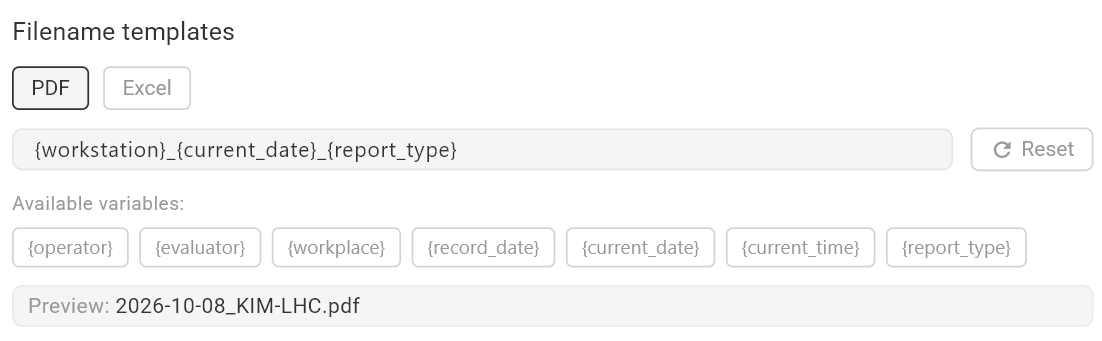
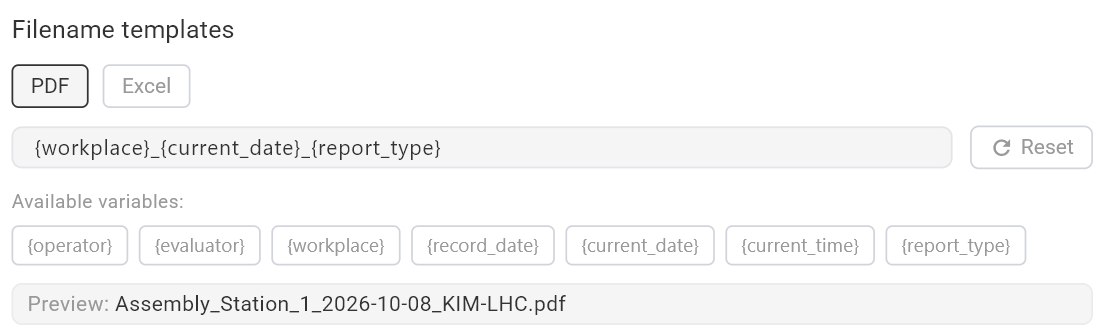
Add recording, hardware and calibration GIFs; update filename templates screenshot
Claude-Session: https://claude.ai/code/session_01LLyQzEhiRwsg6tjQLGizVa

diff --git a/articles/hardware-setup-troubleshooting.html b/articles/hardware-setup-troubleshooting.html
@@ -364,14 +364,10 @@
 
         <p>This is also how you'd recover from a broken sensor: remove the faulty one from its segment, connect its replacement and click <strong>Refresh</strong> (or <strong>Find new trackers</strong>) to detect it, then <strong>Allocate</strong> the new tracker to the now-empty segment.</p>
 
-        <div class="media-placeholder">
-          <span class="media-type is-gif">
-            <svg viewBox="0 0 24 24"><polygon points="5 3 19 12 5 21 5 3"/></svg>
-            GIF
-          </span>
-          <div class="media-placeholder-title">Manual allocation</div>
-          <div class="media-placeholder-desc">Removing a sensor from its segment, then allocating an unassigned tracker to an empty segment via Choose segment.</div>
-        </div>
+        <figure class="article-figure">
+          <img src="hardwaresetuptroubleshooting-manualallocation.gif" alt="Finding a new tracker, then moving the unassigned sensor to the empty Pelvis segment via Choose segment" />
+          <figcaption><strong>Find new trackers</strong> picks up a sensor that isn't assigned yet; its action menu then lets you move it to an empty segment via <strong>Choose segment</strong>.</figcaption>
+        </figure>
 
         <div class="callout callout-warn">
           <svg class="callout-icon" viewBox="0 0 24 24"><path d="M10.29 3.86L1.82 18a2 2 0 0 0 1.71 3h16.94a2 2 0 0 0 1.71-3L13.71 3.86a2 2 0 0 0-3.42 0z"/><line x1="12" y1="9" x2="12" y2="13"/><line x1="12" y1="17" x2="12.01" y2="17"/></svg>

diff --git a/articles/recording-with-mvn-sdk.html b/articles/recording-with-mvn-sdk.html
@@ -368,14 +368,10 @@
 
         <p>These markers aren't just bookmarks: when you later create a report from this recording, they carry straight over as pre-filled tasks &mdash; lifting moments for NIOSH and KIM-LHC, posture tasks for RULA &mdash; in the same place you'd otherwise add them by hand. Task-specific details a marker can't capture, such as NIOSH load weight or coupling, are left for you to fill in on the report's input page.</p>
 
-        <div class="media-placeholder">
-          <span class="media-type is-gif">
-            <svg viewBox="0 0 24 24"><polygon points="5 3 19 12 5 21 5 3"/></svg>
-            GIF
-          </span>
-          <div class="media-placeholder-title">Setting a marker</div>
-          <div class="media-placeholder-desc">Pressing Start marker and Stop marker during a recording to mark out one task.</div>
-        </div>
+        <figure class="article-figure">
+          <img src="recordingwithmvnsdk-settingamarker.gif" alt="Pressing Start marker and Stop marker during a recording, after which the task appears in the Recording tasks panel" />
+          <figcaption>Click <strong>Start marker</strong> when the task begins and <strong>Stop marker</strong> when it ends &mdash; the task then appears in the Recording tasks panel.</figcaption>
+        </figure>
 
         <h3>Keyboard shortcuts</h3>
 

diff --git a/articles/calibrating-your-sensors.html b/articles/calibrating-your-sensors.html
@@ -342,14 +342,10 @@
           <li>Make sure there's enough clear space nearby to walk continuously without bumping into anything</li>
         </ul>
 
-        <div class="media-placeholder">
-          <span class="media-type is-gif">
-            <svg viewBox="0 0 24 24"><polygon points="5 3 19 12 5 21 5 3"/></svg>
-            GIF
-          </span>
-          <div class="media-placeholder-title">Keep walking countdown</div>
-          <div class="media-placeholder-desc">The dynamic calibration step, showing the “Keep walking” countdown ring while the subject walks continuously.</div>
-        </div>
+        <figure class="article-figure">
+          <img style="max-width:582px" src="calibratingyoursensors-keepwalking.gif" alt="The Walk naturally calibration step with the Keep walking countdown while the subject walks" />
+          <figcaption>The walk step &mdash; the subject keeps walking at a natural pace while the <em>Keep walking</em> countdown runs.</figcaption>
+        </figure>
 
         <h2 id="flow"><span class="step-num">4</span> Running the calibration flow</h2>
 
